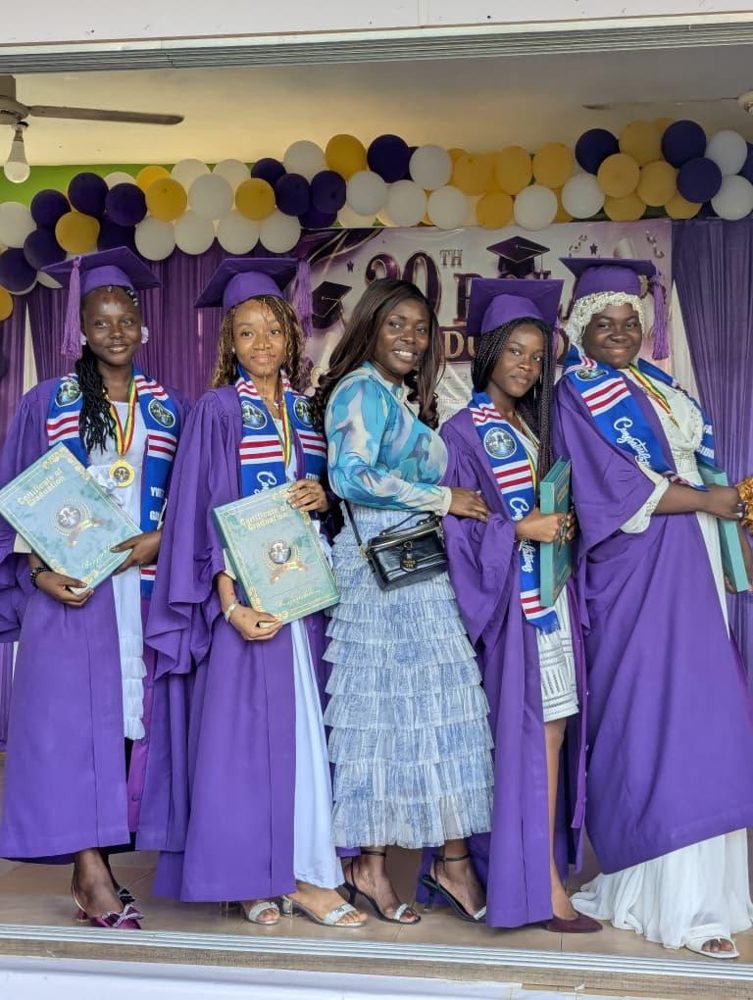
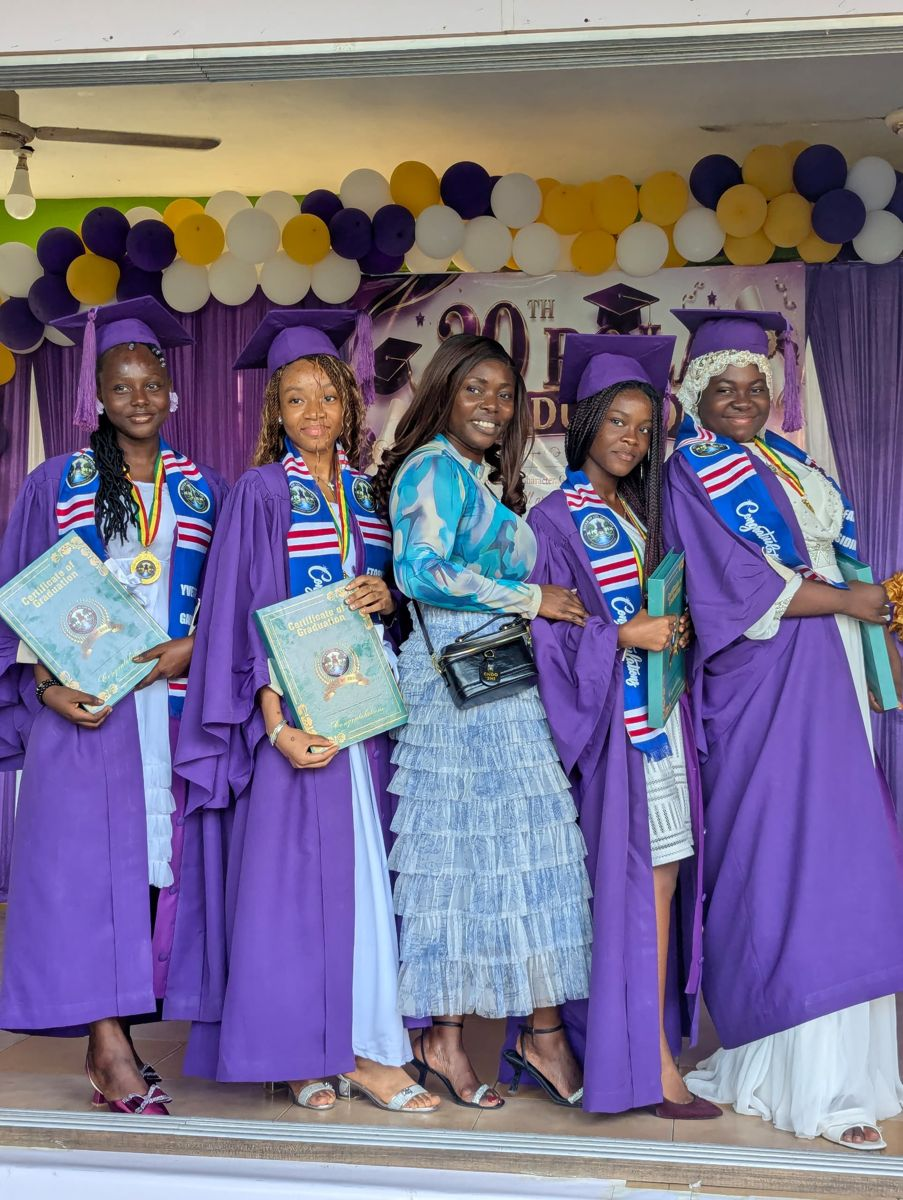
Use the newer school photos and real phone numbers; keep raw photos out of the repo
Adds prepared copies of the newer photos (UCMAS team and trophies, graduation, house colours), replaces older duplicates, and sets the phone numbers from the school admission flyer. Removes the raw photo folder that was committed by mistake and ignores every images/ folder except the prepared site and globe images.

diff --git a/moments.html b/moments.html
@@ -59,12 +59,12 @@
       <div data-for="life"><a href="school-life.html#calendar">Through the Year</a><a href="moments.html">Photo Gallery</a></div>
       <div data-for="admissions"><a href="admissions.html#apply">How to Apply</a><a href="admissions.html#bring">What to Bring</a><a href="admissions.html#dates">Term Dates</a><a href="contact.html#visit">Book a Visit</a></div>
       <div data-for="moments"><a href="moments.html">Photo Gallery</a><a href="https://www.instagram.com/rola_school/" target="_blank" rel="noopener">Instagram</a></div>
-      <div data-for="contact"><a href="contact.html">Get in Touch</a><a href="https://maps.app.goo.gl/BwdagYMMDPkHuo2j6" target="_blank" rel="noopener">Get Directions</a><a href="tel:+233200000000">Call the School</a></div>
+      <div data-for="contact"><a href="contact.html">Get in Touch</a><a href="https://maps.app.goo.gl/BwdagYMMDPkHuo2j6" target="_blank" rel="noopener">Get Directions</a><a href="tel:+233243334846">Call the School</a></div>
     </div>
     <div class="menu__foot">
       <a href="#">Facebook</a>
       <a href="https://www.instagram.com/rola_school/" target="_blank" rel="noopener">Instagram</a>
-      <a href="https://wa.me/233200000000" target="_blank" rel="noopener">WhatsApp</a>
+      <a href="https://wa.me/233243334846" target="_blank" rel="noopener">WhatsApp</a>
       <a href="#" id="replayIntro">Welcome screen</a>
       <span>Devotion and Service</span>
     </div>
@@ -99,6 +99,10 @@
         <button type="button" class="shot"><img src="images/site/g-retro.jpg" alt="School photo: Old School Day" loading="lazy" /><span>Old School Day</span></button>
         <button type="button" class="shot"><img src="images/site/g-uniform.jpg" alt="School photo: Friends for life" loading="lazy" /><span>Friends for life</span></button>
         <button type="button" class="shot"><img src="images/site/h-class.jpg" alt="School photo: Our seniors" loading="lazy" /><span>Our seniors</span></button>
+        <button type="button" class="shot"><img src="images/site/g-ucmas-team.jpg" alt="School photo: UCMAS competition team" loading="lazy" /><span>UCMAS competition team</span></button>
+        <button type="button" class="shot"><img src="images/site/g-graduation-principal.jpg" alt="School photo: Graduation with our Principal" loading="lazy" /><span>Graduation with our Principal</span></button>
+        <button type="button" class="shot"><img src="images/site/g-houses.jpg" alt="School photo: House colours" loading="lazy" /><span>House colours</span></button>
+        <button type="button" class="shot"><img src="images/site/g-winners.jpg" alt="School photo: Trophy winners" loading="lazy" /><span>Trophy winners</span></button>
       </div>
       <p class="moments__more"><a href="https://www.instagram.com/rola_school/" target="_blank" rel="noopener" class="btn btn--light">Follow @rola_school on Instagram <i aria-hidden="true"></i></a></p>
     </div>
@@ -127,7 +131,7 @@
     <nav class="footer__links" aria-label="Social">
       <a href="#">Facebook</a>
       <a href="https://www.instagram.com/rola_school/" target="_blank" rel="noopener">Instagram</a>
-      <a href="https://wa.me/233200000000" target="_blank" rel="noopener">WhatsApp</a>
+      <a href="https://wa.me/233243334846" target="_blank" rel="noopener">WhatsApp</a>
     </nav>
     <p class="footer__copy">All rights reserved. &copy; <span id="year">2026</span> River of Life Academy, Accra</p>
   </div>

diff --git a/contact.html b/contact.html
@@ -59,12 +59,12 @@
       <div data-for="life"><a href="school-life.html#calendar">Through the Year</a><a href="moments.html">Photo Gallery</a></div>
       <div data-for="admissions"><a href="admissions.html#apply">How to Apply</a><a href="admissions.html#bring">What to Bring</a><a href="admissions.html#dates">Term Dates</a><a href="contact.html#visit">Book a Visit</a></div>
       <div data-for="moments"><a href="moments.html">Photo Gallery</a><a href="https://www.instagram.com/rola_school/" target="_blank" rel="noopener">Instagram</a></div>
-      <div data-for="contact"><a href="contact.html">Get in Touch</a><a href="https://maps.app.goo.gl/BwdagYMMDPkHuo2j6" target="_blank" rel="noopener">Get Directions</a><a href="tel:+233200000000">Call the School</a></div>
+      <div data-for="contact"><a href="contact.html">Get in Touch</a><a href="https://maps.app.goo.gl/BwdagYMMDPkHuo2j6" target="_blank" rel="noopener">Get Directions</a><a href="tel:+233243334846">Call the School</a></div>
     </div>
     <div class="menu__foot">
       <a href="#">Facebook</a>
       <a href="https://www.instagram.com/rola_school/" target="_blank" rel="noopener">Instagram</a>
-      <a href="https://wa.me/233200000000" target="_blank" rel="noopener">WhatsApp</a>
+      <a href="https://wa.me/233243334846" target="_blank" rel="noopener">WhatsApp</a>
       <a href="#" id="replayIntro">Welcome screen</a>
       <span>Devotion and Service</span>
     </div>
@@ -79,7 +79,7 @@
   <section class="section ccards-section">
     <div class="wrap ccards">
       <div class="ccard reveal"><p class="eyebrow">Visit</p><h3>River of Life Academy</h3><p>Accra, Ghana<br/>Monday to Friday, 7:00am to 4:00pm</p><a class="ccard__pill" href="https://maps.app.goo.gl/BwdagYMMDPkHuo2j6" target="_blank" rel="noopener">Directions</a></div>
-      <div class="ccard reveal"><p class="eyebrow">Call</p><h3>+233 20 000 0000</h3><p>Speak to the school office during school hours.</p><a class="ccard__pill" href="tel:+233200000000">Call</a><a class="ccard__pill" href="https://wa.me/233200000000" target="_blank" rel="noopener">WhatsApp</a></div>
+      <div class="ccard reveal"><p class="eyebrow">Call</p><h3>0243 334 846<br/>0540 570 330</h3><p>Speak to the school office during school hours.</p><a class="ccard__pill" href="tel:+233243334846">Call 0243 334 846</a><a class="ccard__pill" href="tel:+233540570330">Call 0540 570 330</a><a class="ccard__pill" href="https://wa.me/233243334846" target="_blank" rel="noopener">WhatsApp</a></div>
       <div class="ccard reveal"><p class="eyebrow">Email</p><h3 class="ccard__small">info@riveroflifeacademy.edu.gh</h3><p>We aim to reply within two school days.</p><a class="ccard__pill" href="mailto:info@riveroflifeacademy.edu.gh">Email</a></div>
     </div>
   </section>
@@ -138,7 +138,7 @@
     <nav class="footer__links" aria-label="Social">
       <a href="#">Facebook</a>
       <a href="https://www.instagram.com/rola_school/" target="_blank" rel="noopener">Instagram</a>
-      <a href="https://wa.me/233200000000" target="_blank" rel="noopener">WhatsApp</a>
+      <a href="https://wa.me/233243334846" target="_blank" rel="noopener">WhatsApp</a>
     </nav>
     <p class="footer__copy">All rights reserved. &copy; <span id="year">2026</span> River of Life Academy, Accra</p>
   </div>

diff --git a/school-life.html b/school-life.html
@@ -59,12 +59,12 @@
       <div data-for="life"><a href="school-life.html#calendar">Through the Year</a><a href="moments.html">Photo Gallery</a></div>
       <div data-for="admissions"><a href="admissions.html#apply">How to Apply</a><a href="admissions.html#bring">What to Bring</a><a href="admissions.html#dates">Term Dates</a><a href="contact.html#visit">Book a Visit</a></div>
       <div data-for="moments"><a href="moments.html">Photo Gallery</a><a href="https://www.instagram.com/rola_school/" target="_blank" rel="noopener">Instagram</a></div>
-      <div data-for="contact"><a href="contact.html">Get in Touch</a><a href="https://maps.app.goo.gl/BwdagYMMDPkHuo2j6" target="_blank" rel="noopener">Get Directions</a><a href="tel:+233200000000">Call the School</a></div>
+      <div data-for="contact"><a href="contact.html">Get in Touch</a><a href="https://maps.app.goo.gl/BwdagYMMDPkHuo2j6" target="_blank" rel="noopener">Get Directions</a><a href="tel:+233243334846">Call the School</a></div>
     </div>
     <div class="menu__foot">
       <a href="#">Facebook</a>
       <a href="https://www.instagram.com/rola_school/" target="_blank" rel="noopener">Instagram</a>
-      <a href="https://wa.me/233200000000" target="_blank" rel="noopener">WhatsApp</a>
+      <a href="https://wa.me/233243334846" target="_blank" rel="noopener">WhatsApp</a>
       <a href="#" id="replayIntro">Welcome screen</a>
       <span>Devotion and Service</span>
     </div>
@@ -101,7 +101,7 @@
             <button type="button" class="rlist__head" aria-expanded="true"><span>01</span>Creative Arts<i aria-hidden="true"></i></button>
             <div class="rlist__body"><p>Painting, drawing and craft, shown each year at our art exhibition, &ldquo;Creativity is the Point&rdquo;.</p></div>
           </div>
-          <div class="rlist__row" data-img="images/site/g-ucmas.jpg">
+          <div class="rlist__row" data-img="images/site/g-ucmas-trophies.jpg">
             <button type="button" class="rlist__head" aria-expanded="false"><span>02</span>Mental Arithmetic<i aria-hidden="true"></i></button>
             <div class="rlist__body"><p>Our UCMAS team trains through the year and has brought home trophies from the national competition.</p></div>
           </div>
@@ -192,7 +192,7 @@
     <nav class="footer__links" aria-label="Social">
       <a href="#">Facebook</a>
       <a href="https://www.instagram.com/rola_school/" target="_blank" rel="noopener">Instagram</a>
-      <a href="https://wa.me/233200000000" target="_blank" rel="noopener">WhatsApp</a>
+      <a href="https://wa.me/233243334846" target="_blank" rel="noopener">WhatsApp</a>
     </nav>
     <p class="footer__copy">All rights reserved. &copy; <span id="year">2026</span> River of Life Academy, Accra</p>
   </div>

diff --git a/index.html b/index.html
@@ -99,12 +99,12 @@
       <div data-for="life"><a href="school-life.html#calendar">Through the Year</a><a href="moments.html">Photo Gallery</a></div>
       <div data-for="admissions"><a href="admissions.html#apply">How to Apply</a><a href="admissions.html#bring">What to Bring</a><a href="admissions.html#dates">Term Dates</a><a href="contact.html#visit">Book a Visit</a></div>
       <div data-for="moments"><a href="moments.html">Photo Gallery</a><a href="https://www.instagram.com/rola_school/" target="_blank" rel="noopener">Instagram</a></div>
-      <div data-for="contact"><a href="contact.html">Get in Touch</a><a href="https://maps.app.goo.gl/BwdagYMMDPkHuo2j6" target="_blank" rel="noopener">Get Directions</a><a href="tel:+233200000000">Call the School</a></div>
+      <div data-for="contact"><a href="contact.html">Get in Touch</a><a href="https://maps.app.goo.gl/BwdagYMMDPkHuo2j6" target="_blank" rel="noopener">Get Directions</a><a href="tel:+233243334846">Call the School</a></div>
     </div>
     <div class="menu__foot">
       <a href="#">Facebook</a>
       <a href="https://www.instagram.com/rola_school/" target="_blank" rel="noopener">Instagram</a>
-      <a href="https://wa.me/233200000000" target="_blank" rel="noopener">WhatsApp</a>
+      <a href="https://wa.me/233243334846" target="_blank" rel="noopener">WhatsApp</a>
       <a href="#" id="replayIntro">Welcome screen</a>
       <span>Devotion and Service</span>
     </div>
@@ -117,7 +117,7 @@
       <img class="is-active" src="images/site/hero-1.jpg" alt="Pupils of River of Life Academy during morning exercise in front of the school building" />
       <img src="images/site/hero-3.jpg" alt="" style="object-position:center 30%" />
       <img src="images/site/stats.jpg" alt="" style="object-position:center 45%" />
-      <img src="images/site/hero-2.jpg" alt="" style="object-position:center 22%" />
+      <img src="images/site/hero-2.jpg" alt="" style="object-position:center 55%" />
       <img src="images/site/h-class.jpg" alt="" style="object-position:center 35%" />
     </div>
     <video class="hero__video" id="heroVideo" muted loop playsinline preload="none" aria-hidden="true"></video>
@@ -227,7 +227,7 @@
     <nav class="footer__links" aria-label="Social">
       <a href="#">Facebook</a>
       <a href="https://www.instagram.com/rola_school/" target="_blank" rel="noopener">Instagram</a>
-      <a href="https://wa.me/233200000000" target="_blank" rel="noopener">WhatsApp</a>
+      <a href="https://wa.me/233243334846" target="_blank" rel="noopener">WhatsApp</a>
     </nav>
     <p class="footer__copy">All rights reserved. &copy; <span id="year">2026</span> River of Life Academy, Accra</p>
   </div>

diff --git a/admissions.html b/admissions.html
@@ -59,12 +59,12 @@
       <div data-for="life"><a href="school-life.html#calendar">Through the Year</a><a href="moments.html">Photo Gallery</a></div>
       <div data-for="admissions"><a href="admissions.html#apply">How to Apply</a><a href="admissions.html#bring">What to Bring</a><a href="admissions.html#dates">Term Dates</a><a href="contact.html#visit">Book a Visit</a></div>
       <div data-for="moments"><a href="moments.html">Photo Gallery</a><a href="https://www.instagram.com/rola_school/" target="_blank" rel="noopener">Instagram</a></div>
-      <div data-for="contact"><a href="contact.html">Get in Touch</a><a href="https://maps.app.goo.gl/BwdagYMMDPkHuo2j6" target="_blank" rel="noopener">Get Directions</a><a href="tel:+233200000000">Call the School</a></div>
+      <div data-for="contact"><a href="contact.html">Get in Touch</a><a href="https://maps.app.goo.gl/BwdagYMMDPkHuo2j6" target="_blank" rel="noopener">Get Directions</a><a href="tel:+233243334846">Call the School</a></div>
     </div>
     <div class="menu__foot">
       <a href="#">Facebook</a>
       <a href="https://www.instagram.com/rola_school/" target="_blank" rel="noopener">Instagram</a>
-      <a href="https://wa.me/233200000000" target="_blank" rel="noopener">WhatsApp</a>
+      <a href="https://wa.me/233243334846" target="_blank" rel="noopener">WhatsApp</a>
       <a href="#" id="replayIntro">Welcome screen</a>
       <span>Devotion and Service</span>
     </div>
@@ -189,7 +189,7 @@
     <nav class="footer__links" aria-label="Social">
       <a href="#">Facebook</a>
       <a href="https://www.instagram.com/rola_school/" target="_blank" rel="noopener">Instagram</a>
-      <a href="https://wa.me/233200000000" target="_blank" rel="noopener">WhatsApp</a>
+      <a href="https://wa.me/233243334846" target="_blank" rel="noopener">WhatsApp</a>
     </nav>
     <p class="footer__copy">All rights reserved. &copy; <span id="year">2026</span> River of Life Academy, Accra</p>
   </div>

diff --git a/learning.html b/learning.html
@@ -59,12 +59,12 @@
       <div data-for="life"><a href="school-life.html#calendar">Through the Year</a><a href="moments.html">Photo Gallery</a></div>
       <div data-for="admissions"><a href="admissions.html#apply">How to Apply</a><a href="admissions.html#bring">What to Bring</a><a href="admissions.html#dates">Term Dates</a><a href="contact.html#visit">Book a Visit</a></div>
       <div data-for="moments"><a href="moments.html">Photo Gallery</a><a href="https://www.instagram.com/rola_school/" target="_blank" rel="noopener">Instagram</a></div>
-      <div data-for="contact"><a href="contact.html">Get in Touch</a><a href="https://maps.app.goo.gl/BwdagYMMDPkHuo2j6" target="_blank" rel="noopener">Get Directions</a><a href="tel:+233200000000">Call the School</a></div>
+      <div data-for="contact"><a href="contact.html">Get in Touch</a><a href="https://maps.app.goo.gl/BwdagYMMDPkHuo2j6" target="_blank" rel="noopener">Get Directions</a><a href="tel:+233243334846">Call the School</a></div>
     </div>
     <div class="menu__foot">
       <a href="#">Facebook</a>
       <a href="https://www.instagram.com/rola_school/" target="_blank" rel="noopener">Instagram</a>
-      <a href="https://wa.me/233200000000" target="_blank" rel="noopener">WhatsApp</a>
+      <a href="https://wa.me/233243334846" target="_blank" rel="noopener">WhatsApp</a>
       <a href="#" id="replayIntro">Welcome screen</a>
       <span>Devotion and Service</span>
     </div>
@@ -179,7 +179,7 @@
     <nav class="footer__links" aria-label="Social">
       <a href="#">Facebook</a>
       <a href="https://www.instagram.com/rola_school/" target="_blank" rel="noopener">Instagram</a>
-      <a href="https://wa.me/233200000000" target="_blank" rel="noopener">WhatsApp</a>
+      <a href="https://wa.me/233243334846" target="_blank" rel="noopener">WhatsApp</a>
     </nav>
     <p class="footer__copy">All rights reserved. &copy; <span id="year">2026</span> River of Life Academy, Accra</p>
   </div>

diff --git a/our-school.html b/our-school.html
@@ -59,12 +59,12 @@
       <div data-for="life"><a href="school-life.html#calendar">Through the Year</a><a href="moments.html">Photo Gallery</a></div>
       <div data-for="admissions"><a href="admissions.html#apply">How to Apply</a><a href="admissions.html#bring">What to Bring</a><a href="admissions.html#dates">Term Dates</a><a href="contact.html#visit">Book a Visit</a></div>
       <div data-for="moments"><a href="moments.html">Photo Gallery</a><a href="https://www.instagram.com/rola_school/" target="_blank" rel="noopener">Instagram</a></div>
-      <div data-for="contact"><a href="contact.html">Get in Touch</a><a href="https://maps.app.goo.gl/BwdagYMMDPkHuo2j6" target="_blank" rel="noopener">Get Directions</a><a href="tel:+233200000000">Call the School</a></div>
+      <div data-for="contact"><a href="contact.html">Get in Touch</a><a href="https://maps.app.goo.gl/BwdagYMMDPkHuo2j6" target="_blank" rel="noopener">Get Directions</a><a href="tel:+233243334846">Call the School</a></div>
     </div>
     <div class="menu__foot">
       <a href="#">Facebook</a>
       <a href="https://www.instagram.com/rola_school/" target="_blank" rel="noopener">Instagram</a>
-      <a href="https://wa.me/233200000000" target="_blank" rel="noopener">WhatsApp</a>
+      <a href="https://wa.me/233243334846" target="_blank" rel="noopener">WhatsApp</a>
       <a href="#" id="replayIntro">Welcome screen</a>
       <span>Devotion and Service</span>
     </div>
@@ -159,7 +159,7 @@
     <nav class="footer__links" aria-label="Social">
       <a href="#">Facebook</a>
       <a href="https://www.instagram.com/rola_school/" target="_blank" rel="noopener">Instagram</a>
-      <a href="https://wa.me/233200000000" target="_blank" rel="noopener">WhatsApp</a>
+      <a href="https://wa.me/233243334846" target="_blank" rel="noopener">WhatsApp</a>
     </nav>
     <p class="footer__copy">All rights reserved. &copy; <span id="year">2026</span> River of Life Academy, Accra</p>
   </div>

diff --git a/tools/build.py b/tools/build.py
@@ -10,8 +10,11 @@ import os
 
 ROOT = os.path.dirname(os.path.dirname(os.path.abspath(__file__)))
 
-PHONE_DISPLAY = "+233 20 000 0000"
-PHONE_LINK = "+233200000000"
+# Numbers as printed on the school's "Admission in Progress" flyer
+PHONE_DISPLAY = "0243 334 846"
+PHONE_LINK = "+233243334846"
+PHONE2_DISPLAY = "0540 570 330"
+PHONE2_LINK = "+233540570330"
 EMAIL = "info@riveroflifeacademy.edu.gh"
 MAPS = "https://maps.app.goo.gl/BwdagYMMDPkHuo2j6"
 INSTAGRAM = "https://www.instagram.com/rola_school/"
@@ -315,6 +318,8 @@ SHOTS = [
     ("g-games", "Games day"), ("g-christmas", "Christmas at ROLA"), ("g-trophy", "Champions"),
     ("g-cooking", "Life skills day"), ("g-trip-pool", "Excursion: pool day"), ("g-retro", "Old School Day"),
     ("g-uniform", "Friends for life"), ("h-class", "Our seniors"),
+    ("g-ucmas-team", "UCMAS competition team"), ("g-graduation-principal", "Graduation with our Principal"),
+    ("g-houses", "House colours"), ("g-winners", "Trophy winners"),
 ]
 
 
@@ -345,7 +350,7 @@ def page_home():
       <img class="is-active" src="images/site/hero-1.jpg" alt="Pupils of River of Life Academy during morning exercise in front of the school building" />
       <img src="images/site/hero-3.jpg" alt="" style="object-position:center 30%" />
       <img src="images/site/stats.jpg" alt="" style="object-position:center 45%" />
-      <img src="images/site/hero-2.jpg" alt="" style="object-position:center 22%" />
+      <img src="images/site/hero-2.jpg" alt="" style="object-position:center 55%" />
       <img src="images/site/h-class.jpg" alt="" style="object-position:center 35%" />
     </div>
     <video class="hero__video" id="heroVideo" muted loop playsinline preload="none" aria-hidden="true"></video>
@@ -466,7 +471,7 @@ def page_learning():
 def page_school_life():
     rows = [
         ("Creative Arts", "Painting, drawing and craft, shown each year at our art exhibition, &ldquo;Creativity is the Point&rdquo;.", "images/site/g-art.jpg"),
-        ("Mental Arithmetic", "Our UCMAS team trains through the year and has brought home trophies from the national competition.", "images/site/g-ucmas.jpg"),
+        ("Mental Arithmetic", "Our UCMAS team trains through the year and has brought home trophies from the national competition.", "images/site/g-ucmas-trophies.jpg"),
         ("Sport &amp; Fitness", "Morning exercise, physical education, games and inter-house competitions.", "images/site/g-pe.jpg"),
         ("Cultural Day", "A celebration of Ghanaian heritage, when pupils and teachers come to school in traditional dress.", "images/site/g-culture.jpg"),
         ("Old School Day", "Pupils and teachers step back in time for a day, with outfits and music to match.", "images/site/g-oldschool.jpg"),
@@ -570,7 +575,7 @@ def page_contact():
   <section class="section ccards-section">
     <div class="wrap ccards">
       <div class="ccard reveal"><p class="eyebrow">Visit</p><h3>River of Life Academy</h3><p>Accra, Ghana<br/>Monday to Friday, 7:00am to 4:00pm</p><a class="ccard__pill" href="{MAPS}" target="_blank" rel="noopener">Directions</a></div>
-      <div class="ccard reveal"><p class="eyebrow">Call</p><h3>{PHONE_DISPLAY}</h3><p>Speak to the school office during school hours.</p><a class="ccard__pill" href="tel:{PHONE_LINK}">Call</a><a class="ccard__pill" href="https://wa.me/{PHONE_LINK.lstrip('+')}" target="_blank" rel="noopener">WhatsApp</a></div>
+      <div class="ccard reveal"><p class="eyebrow">Call</p><h3>{PHONE_DISPLAY}<br/>{PHONE2_DISPLAY}</h3><p>Speak to the school office during school hours.</p><a class="ccard__pill" href="tel:{PHONE_LINK}">Call {PHONE_DISPLAY}</a><a class="ccard__pill" href="tel:{PHONE2_LINK}">Call {PHONE2_DISPLAY}</a><a class="ccard__pill" href="https://wa.me/{PHONE_LINK.lstrip('+')}" target="_blank" rel="noopener">WhatsApp</a></div>
       <div class="ccard reveal"><p class="eyebrow">Email</p><h3 class="ccard__small">{EMAIL}</h3><p>We aim to reply within two school days.</p><a class="ccard__pill" href="mailto:{EMAIL}">Email</a></div>
     </div>
   </section>
